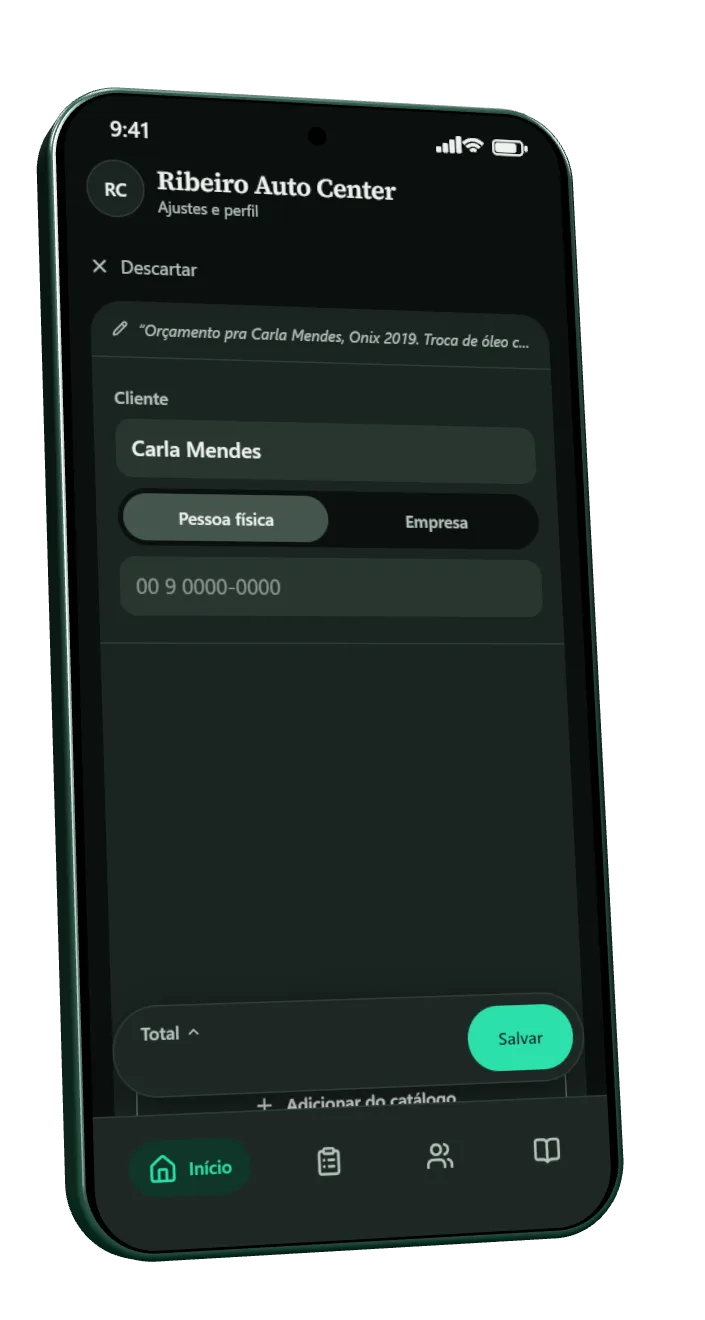
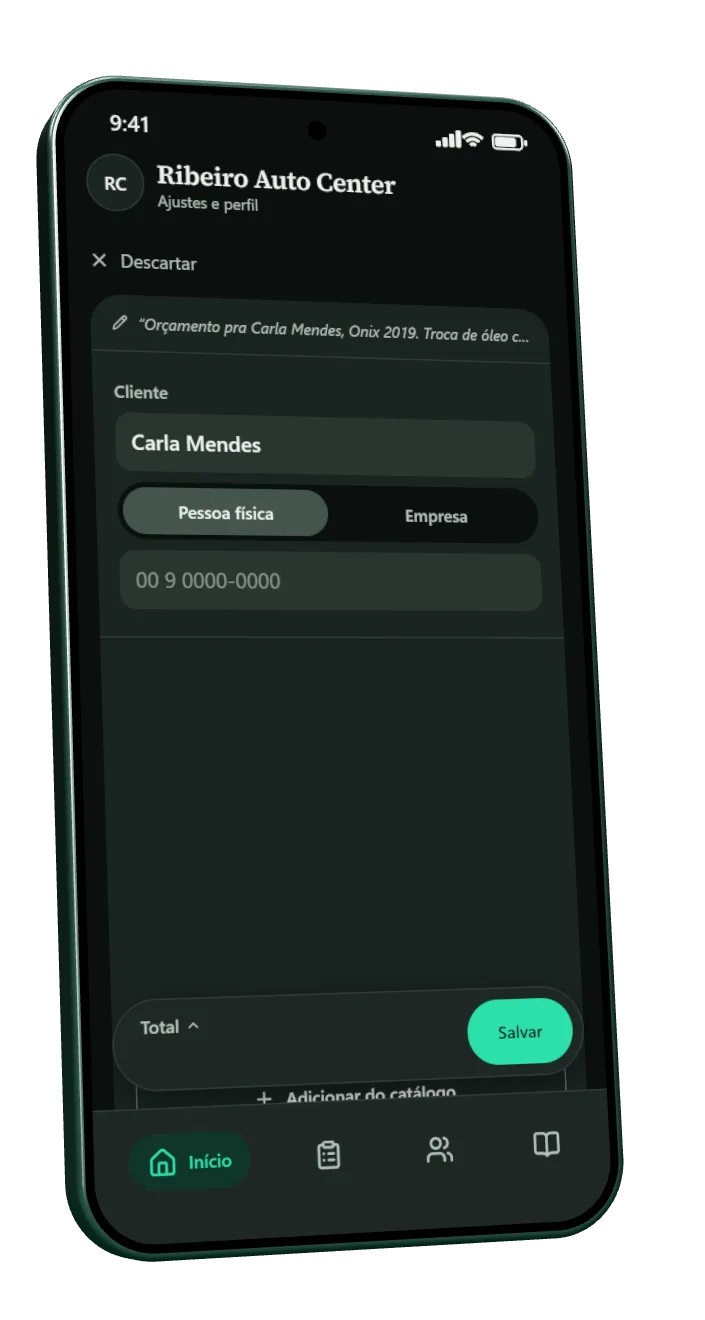
Telas do aparelho 3D com a linha preta igual nos 4 lados
As camadas dos passos eram de antes da correção de 06/11: topo e base com 1 a 2 px
de linha preta contra 7 a 9 nas laterais. Refeitas pelo video.mjs atual (modo
passo, os três grupos, claro e escuro) e medidas: 6 a 9 px nos quatro lados.
passo-aceite recortado de novo (1035 px de altura).

diff --git a/index.html b/index.html
@@ -167,7 +167,7 @@
           <p>PDF com a sua logo e o QR do PIX, ou um link que o cliente abre no navegador, sem instalar nada.</p>
         </li>
         <li class="passo">
-          <div class="passo-tela"><picture><source srcset="passo-aceite-escuro.webp" media="(prefers-color-scheme: dark)"><img src="passo-aceite-claro.webp" width="522" height="1025" loading="lazy" alt="Aviso no app: Carla aceitou pelo link, R$ 1.919,90"></picture></div>
+          <div class="passo-tela"><picture><source srcset="passo-aceite-escuro.webp" media="(prefers-color-scheme: dark)"><img src="passo-aceite-claro.webp" width="522" height="1035" loading="lazy" alt="Aviso no app: Carla aceitou pelo link, R$ 1.919,90"></picture></div>
           <span class="passo-num" aria-hidden="true">4</span>
           <h3>Acompanhe</h3>
           <p>Você vê quando o cliente abriu e quando aceitou. Nada de ficar perguntando "e aí, fechou?".</p>
